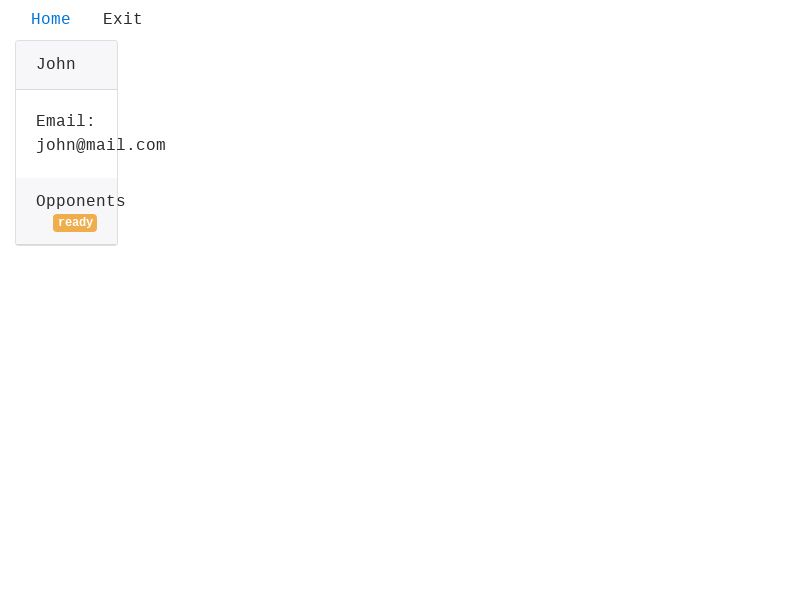
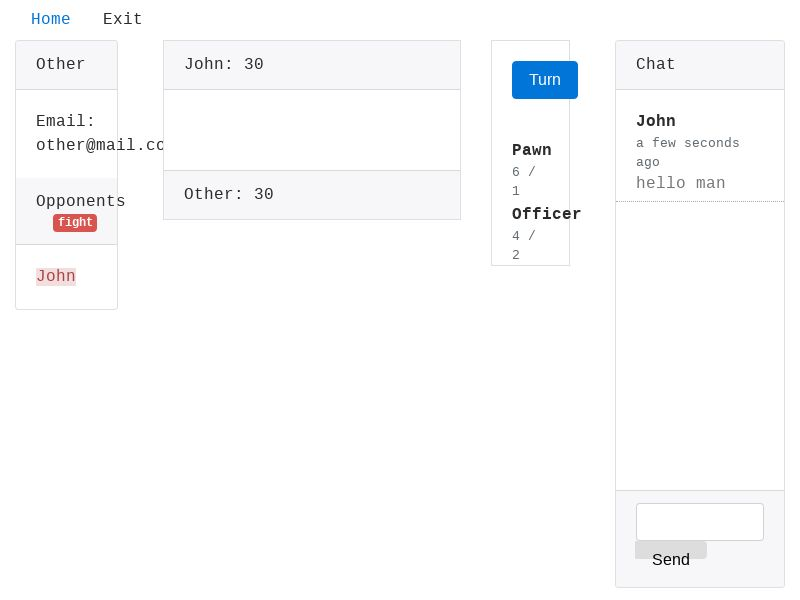
test: test chat

diff --git a/server/test/acceptance/start_game.test.js b/server/test/acceptance/start_game.test.js
@@ -1,16 +1,13 @@
 import puppeteer from "puppeteer";
 import axios from "axios";
 import { expect } from "chai";
-import { makePage, authUser, setToken } from "./helpers";
+import { clearPage, becomeUser, makePage, authUser, setToken } from "./helpers";
 
 const { ORIGIN, JWT_SECRET } = process.env;
 
-describe("game process", function() {
-  before(async function userIsAuthenticated() {
-    const token = await authUser("John", "john@mail.com", "deadbeef");
-
-    await this.page.goto(ORIGIN);
-    await setToken(this.page, token);
+describe("start game", function() {
+  before(function userIsAuthenticated() {
+    return becomeUser(this, "John", "john@mail.com", "deadbeef");
   });
 
   it.skip("we are on user page", async function() {
@@ -48,12 +45,8 @@ describe("game process", function() {
 
     context("when another user click on state badge", function() {
       before(async function() {
-        this.other = {};
-        await makePage(this.other);
-        const token = await authUser("Other", "other@mail.com", "deadbeef");
+        await becomeUser(this.other, "Other", "other@mail.com", "deadbeef");
 
-        await this.other.page.goto(ORIGIN);
-        await setToken(this.other.page, token);
         await this.other.page.click("#user_status_badge");
         await this.other.page.waitFor(200); // wait for ws response
       });
@@ -65,15 +58,12 @@ describe("game process", function() {
         );
         expect(text).to.be.equal("fight");
       });
-
-      after(function() {
-        return this.other.browser.close();
-      });
     });
   });
 
   after(async function() {
-    await this.page.evaluate(() => localStorage.clear());
+    await clearPage(this.page);
+    await clearPage(this.other.page);
     await this.db.dropDatabase();
   });
 });

diff --git a/server/test/acceptance/chat.test.js b/server/test/acceptance/chat.test.js
@@ -1,0 +1,51 @@
+import puppeteer from "puppeteer";
+import axios from "axios";
+import { expect } from "chai";
+import { becomeUser, makePage, authUser, clearPage } from "./helpers";
+
+const { ORIGIN, JWT_SECRET } = process.env;
+const msg = "hello man";
+
+describe("chatting", function() {
+  before(async function() {
+    await becomeUser(this, "John", "john@mail.com", "deadbeef");
+    await becomeUser(this.other, "Other", "other@mail.com", "deadbeef");
+    await this.page.click("#user_status_badge");
+    await this.page.waitFor(200); // wait for ws response
+    await this.other.page.click("#user_status_badge");
+    await this.other.page.waitFor(200); // wait for ws response
+  });
+
+  context("when user type message", function() {
+    before(async function() {
+      await this.page.focus("#chat_message_input");
+      await this.page.keyboard.type(msg);
+      await this.page.click("#btn-chat");
+      await this.page.waitFor(300);
+    });
+
+    it("other user see the message", async function() {
+      const { len, text } = await this.other.page.$eval(
+        "#chat_messages",
+        el => ({ len: el.children.length, text: el.firstChild.textContent })
+      );
+      expect(len).to.be.equal(1);
+      expect(text).to.match(new RegExp(msg));
+    });
+
+    it("current user see the message", async function() {
+      const { len, text } = await this.page.$eval("#chat_messages", el => ({
+        len: el.children.length,
+        text: el.firstChild.textContent
+      }));
+      expect(len).to.be.equal(1);
+      expect(text).to.match(new RegExp(msg));
+    });
+  });
+
+  after(async function() {
+    await clearPage(this.page);
+    await clearPage(this.other.page);
+    await this.db.dropDatabase();
+  });
+});

diff --git a/server/test/acceptance/auth.test.js b/server/test/acceptance/auth.test.js
@@ -1,5 +1,7 @@
 import jwt from "jsonwebtoken";
 
+import { clearPage } from "./helpers";
+
 const { expect } = require("chai");
 
 const { ORIGIN, JWT_SECRET } = process.env;
@@ -18,9 +20,7 @@ describe("Authentication", function() {
       await this.page.focus("form input#signup_password");
       await this.page.keyboard.type("deadbeef");
       await this.page.click("#signup_submit_btn");
-      this.resp = await new Promise(resolve =>
-        this.page.once("response", resolve)
-      );
+      this.resp = await new Promise(ok => this.page.once("response", ok));
     });
 
     it("receive successfull response", async function() {
@@ -34,9 +34,7 @@ describe("Authentication", function() {
         await this.page.focus("form input#login_password");
         await this.page.keyboard.type("deadbeef");
         await this.page.click("form#login button");
-        this.resp = await new Promise(resolve =>
-          this.page.once("response", resolve)
-        );
+        this.resp = await new Promise(ok => this.page.once("response", ok));
       });
 
       it("receive successfull responce", async function() {
@@ -75,19 +73,8 @@ describe("Authentication", function() {
     });
 
     after(async function() {
+      await clearPage(this.page);
       await this.db.dropDatabase();
-      await this.page.evaluate(() => {
-        window.localStorage.clear();
-      });
     });
   });
 });
-
-//await page.click(USERNAME_SELECTOR);
-//await page.keyboard.type(CREDS.username);
-//
-//await page.click(PASSWORD_SELECTOR);
-//await page.keyboard.type(CREDS.password);
-//
-//await page.click(BUTTON_SELECTOR);
-//await page.waitForNavigation();

diff --git a/server/test/acceptance/init.test.js b/server/test/acceptance/init.test.js
@@ -6,15 +6,16 @@ import { makePage } from "./helpers";
 const { MONGO_URL } = process.env;
 
 before(async function() {
+  this.other = {};
   await makePage(this);
+  await makePage(this.other);
 
-  this.conn = await MongoClient.connect(MONGO_URL);
-  this.db = this.conn.db("test");
+  this.mongoConn = await MongoClient.connect(MONGO_URL);
+  this.db = this.mongoConn.db("test");
 });
 
 after(async function() {
+  await this.other.browser.close();
   await this.browser.close();
-  await this.conn.close();
+  await this.mongoConn.close();
 });
-
-process.on("unhandledRejection", console.error);

diff --git a/client/src/components/game/chat/MessageBoard.js b/client/src/components/game/chat/MessageBoard.js
@@ -16,7 +16,7 @@ export default class MessageBoard extends React.Component {
       <ul className="chat" ref={el => (this.board = el)}>
         {messages.length > 0 &&
           messages.map((msg, i) => (
-            <li className="card-block" key={i}>
+            <li id="chat_messages" className="card-block" key={i}>
               <div className="chat-body">
                 <div className="header">
                   <strong className="primary-font">{msg.name}</strong>

diff --git a/server/test/acceptance/helpers.js b/server/test/acceptance/helpers.js
@@ -33,3 +33,15 @@ export async function makePage(ctx) {
   });
   ctx.page = await ctx.browser.newPage();
 }
+
+export async function becomeUser(ctx, name, email, password) {
+  const token = await authUser(name, email, password);
+
+  await ctx.page.goto(ORIGIN);
+  await setToken(ctx.page, token);
+}
+
+export async function clearPage(page) {
+  await page.evaluate(() => localStorage.clear());
+  await page.reload();
+}

diff --git a/client/src/components/game/chat/MessageInput.js b/client/src/components/game/chat/MessageInput.js
@@ -27,6 +27,7 @@ export default class MessageInput extends React.Component {
       <form className="form-inline" onSubmit={this.onSubmit}>
         <div className="input-group">
           <input
+            id="chat_message_input"
             className="form-control input-sm"
             name="message"
             type="text"
